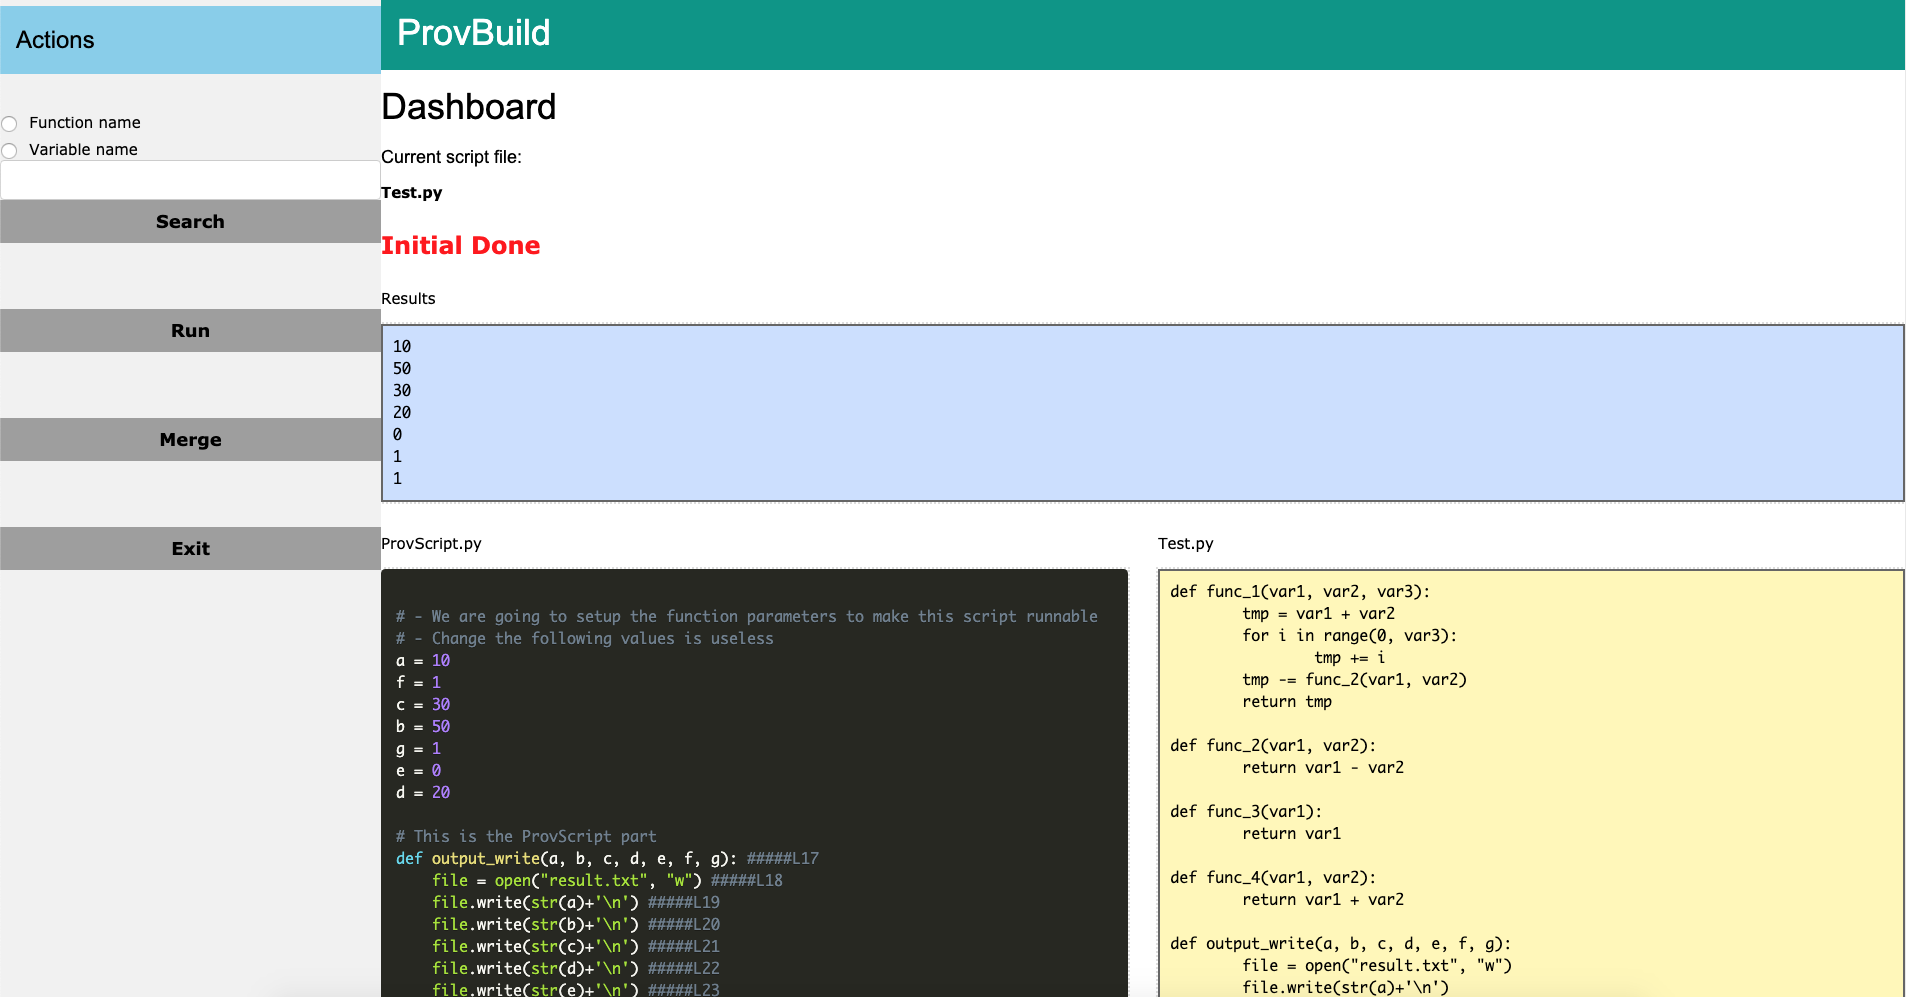
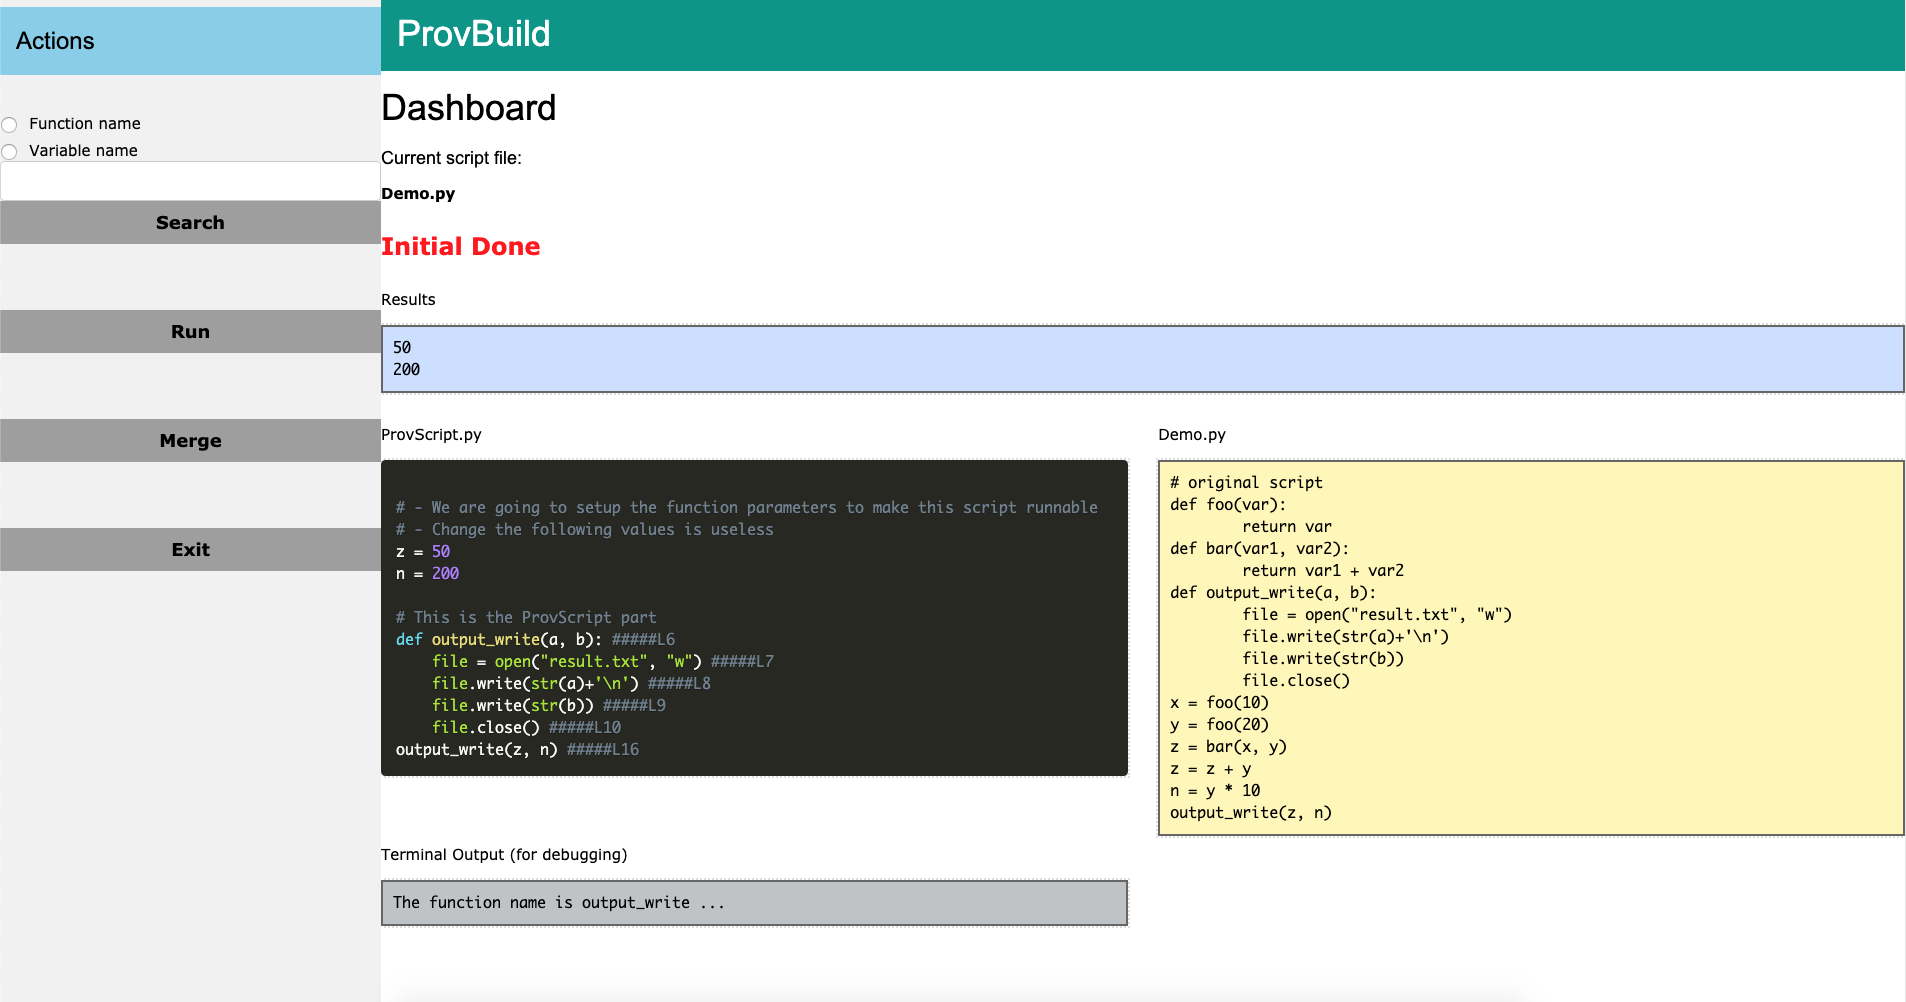
Readme updated

diff --git a/README.md b/README.md
@@ -2,6 +2,11 @@
 
 This repository provides the ProvBuild tool for the paper "Improving Data Scientist Efficiency with Provenance".
 
+## About ProvBuild
+ProvBuild is a data analysis environment that uses change impact analysis to improve the iterative editing process in script-based workflow pipelines by harnessing a script’s provenance.
+
+ProvBuild obtains provenance using noWorkflow, a Python-based provenance capture tool. Using the provenance information, ProvBuild identifies dependencies between inputs, program statements, functions, variables, and outputs, allowing it to precisely identify the sections of a script that must be re-executed to correctly update results after a modification. ProvBuild then generates a customized script, the _ProvScript_, that contains only those sections affected by a modification.
+
 ## Tool
 ProvBuild is built on top of noWorkflow (Version 1.11.2). Check out [noWorkflow's Github](https://github.com/gems-uff/noworkflow) for more information details.
 
@@ -23,16 +28,30 @@ If you have python `pip`, install the following packages:
 	$ git clone https://github.com/CrystalMei/ProvBuild.git
 	$ cd ProvBuild
 
-### Run ProvBuild Interface
+### ProvBuild Interface and Demo
+- Step 1: The user runs `python app.py` and it will start a webpage as shown below:
+![StartPage](img/0.png)
 
-- Step 1: Run `python app.py` and it will start a webpage as shown below:
-![StartPage](img/1.png)
+- Step 2: The user selects ProvBuild mode and upload demo script `./example/Demo.py`:
+![](img/1.png)
 
-- Step 2: Upload the test script `./example/Test.py`, then the webpage shows:
+- Step 3: After script submission, the webpage will be updated:
 ![](img/2.png)
 
-- Step 3: Interact with ProvBuild, e.g., exploring variable `e` in the test script.
-![](img/3.png)
+- Step 4: The user inputs the name of the function or variable (e.g. variable `z` in `Demo.py`) to edit:
+![](img/4.png)
+
+- Step 5: After click **Search**, ProvBuild extracts the object's dependencies based on the stored provenance information and generates a _ProvScript_ containing only code pertaining to the chosen object. The webpage will be updated:
+![](img/5.png)
+
+- Step 6: The user directly makes modifications on the _ProvScript_ (shown as {1}). After click **Run**, instead of running the original `Demo.py`, ProvBuild executes the shortened _ProvScript_ for the user (shown as {2}):
+![](img/6.png)
+
+- Step 7:  The program results will be updated (shown as {1}). After click **Merge**, the user seasily merge edits from the _ProvScript_ into the original `Demo.py` (shown as {2}):
+![](img/7.png)
+
+- Step 8: The original file will be updated with the user's modification:
+![](img/8.png)
 
 ### Run ProvBuild Manually
 * Initial and run the given test Python script: `./make.sh r <script_name>.py`
